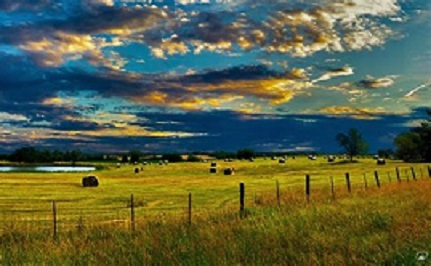
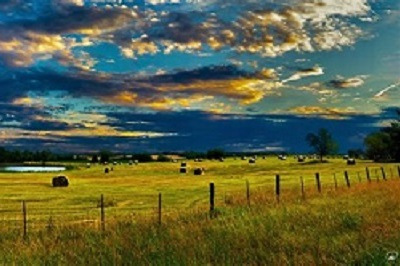
needed to resize image 6 because it was large enough to interfere with an overlap between pictures 5 and 7. also created a new function to reduce the repeat class code!!

diff --git a/JavaScript/SlideShow2.html b/JavaScript/SlideShow2.html
@@ -39,21 +39,25 @@
         var nextBtn = document.getElementById('next');
         var prevBtn = document.getElementById('previous');
 
+        function swapImage() {
+            var newSlide = document.createElement('img');
+            newSlide.src = `images/${myImages[currentImage]}`;
+            newSlide.className = 'fadeinimg';
+            container.appendChild(newSlide);
+
+            if (container.children.length > 2) {
+                container.removeChild(container.children[0]); // This will remove the bottom most child. This is necessary
+                // because every time we click the link, it adds one more and this fills up the DOM.
+            }
+        }
+
         nextBtn.addEventListener('click', function(event) {
             event.preventDefault();
 
             currentImage++;
             if(currentImage > myImages.length-1){currentImage = 0;}
 
-            var newSlide = document.createElement('img');
-            newSlide.src = `images/${myImages[currentImage]}`;
-            newSlide.className = 'fadeinimg';
-            container.appendChild(newSlide);
-
-            if (container.children.length>2) {
-                container.removeChild(container.children[0]); // This will remove the bottom most child. This is necessary
-                // because every time we click the link, it adds one more and this fills up the DOM.
-            }
+            swapImage();
         });
 
         prevBtn.addEventListener('click', function(event) {
@@ -62,14 +66,7 @@
             currentImage--;
             if(currentImage < 0) {currentImage=myImages.length-1}
 
-            var newSlide = document.createElement('img');
-            newSlide.src = `images/${myImages[currentImage]}`;
-            newSlide.className = 'fadeinimg';
-            container.appendChild(newSlide);
-
-            if (container.children.length>2) {
-                container.removeChild(container.children[0]);
-            }
+            swapImage();
         });
 
     </script>
